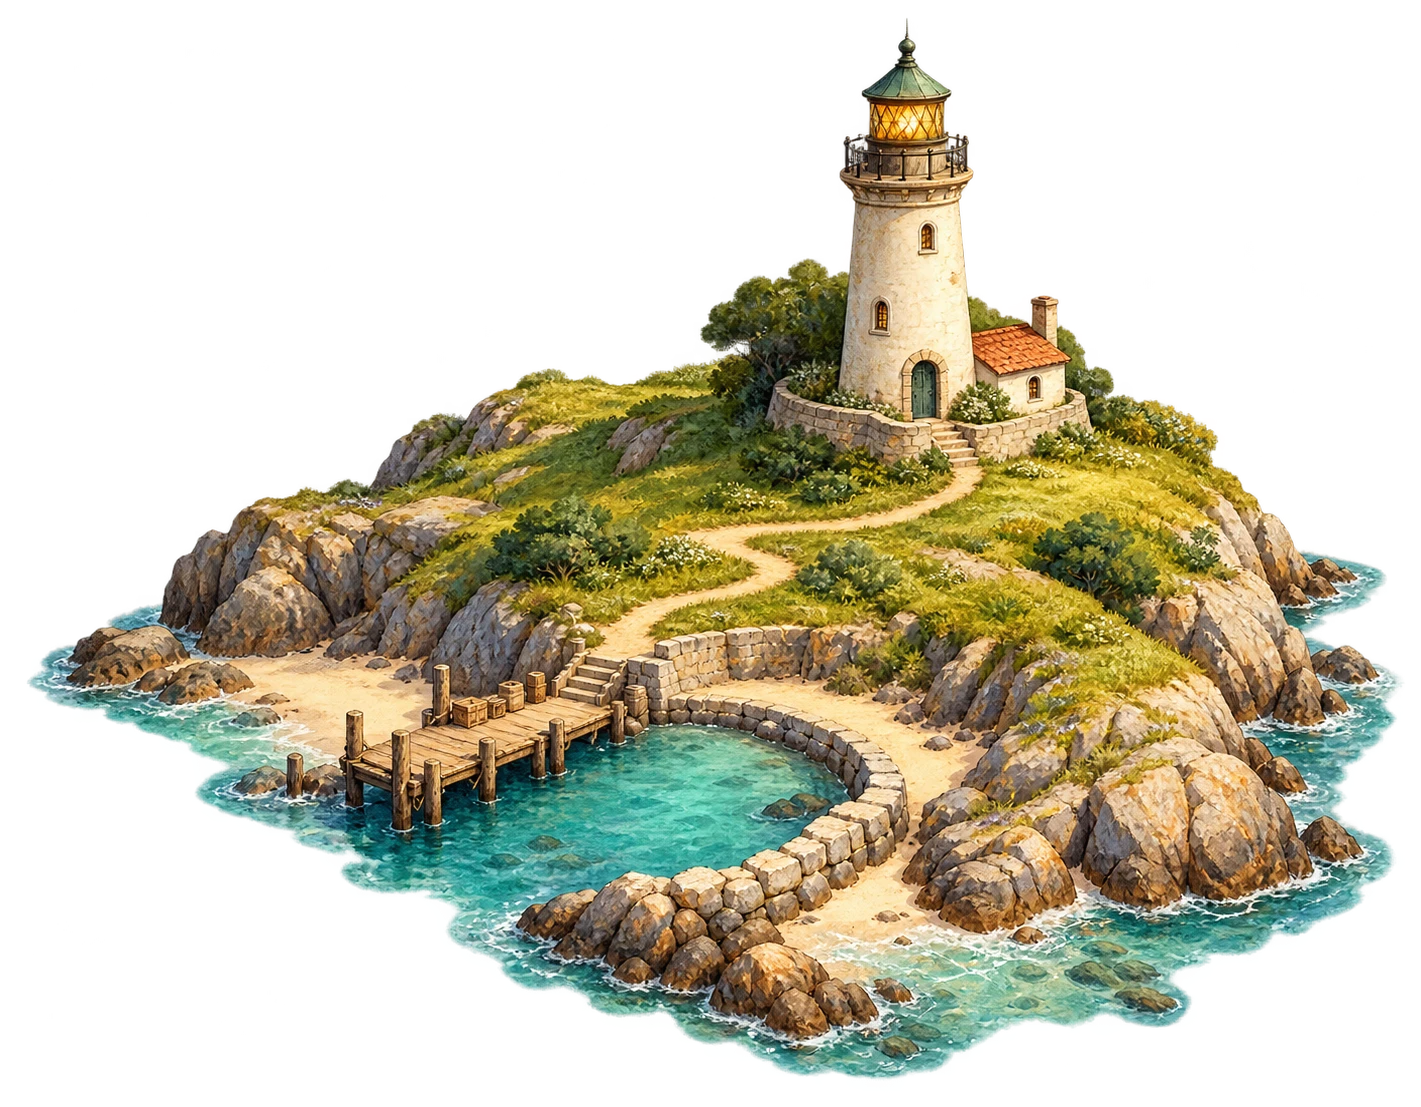
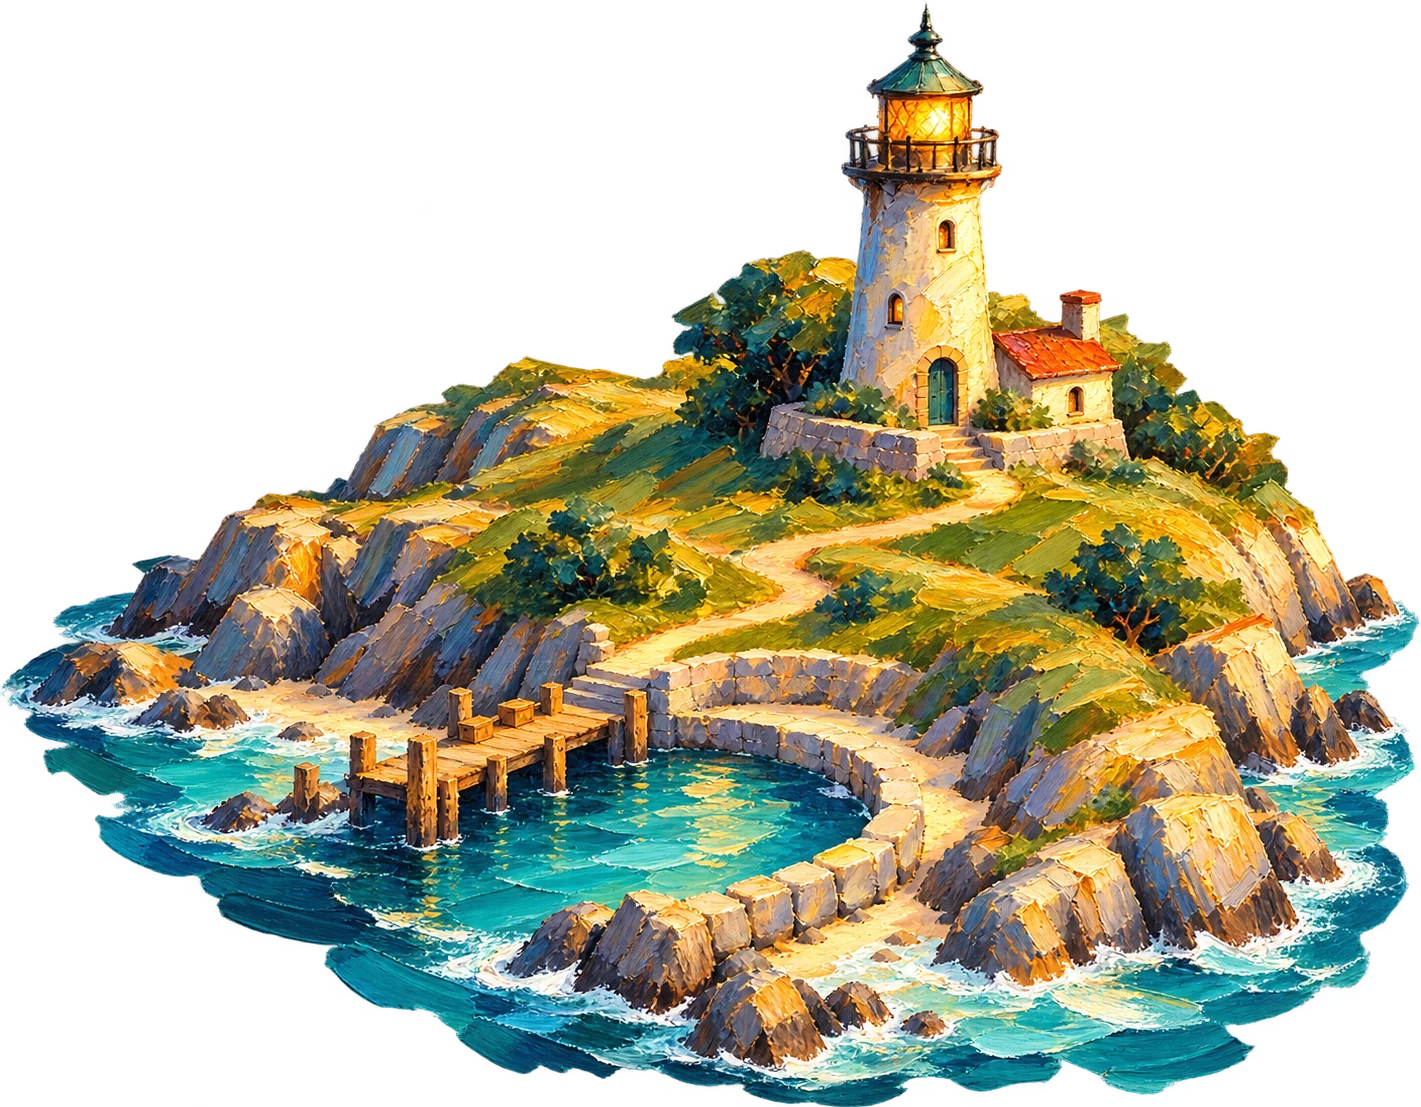
Repainted art plates (backdrop, generic/major/lighthouse islands, chest, parchment) as WebP under 600 KB; judging criteria mapped to the product

diff --git a/docs/JUDGING_CRITERIA.md b/docs/JUDGING_CRITERIA.md
@@ -1,0 +1,28 @@
+# codeLinc 11 — judging criteria (as published; read by every review, docs and presentation agent)
+
+1. **User Interface & Intuitiveness** — cohesive, logical UI/UX; easy for the target user to navigate and administer.
+2. **Functional Requirements & Impact** — functionally addresses the challenge; solves a real problem.
+3. **Solution Design & Innovation** — innovative or creative approach.
+4. **Demonstration and Presentation** — delivered clearly, effectively, positively; demo/screenshots clearly depict the functionality developed.
+5. **Does it Work?** — all or part of the application works; would the organization use it? *Significantly more weight on core functionality than on
+   supporting items such as login/registration/password reset.*
+6. **Technology Platform(s) Employed** — novel platforms, libraries, open source, APIs.
+7. **Security Accommodations** — no value in building login/password from scratch; **describe** how the application accommodates user security via
+   publicly available mechanisms or other means.
+8. **Technical Creativity** — novel approach or innovative solution to the challenge.
+9. **Architecture & Methodology** — presentation touches on architecture; storyboarding or other roadmapping was employed.
+10. **Complexity** — not more complex than necessary, but not overly simplistic; does not gloss over or omit accommodations for the functionality presented.
+
+## How OralCompass maps to the criteria (keep this current)
+| # | Where the evidence lives |
+|---|---|
+| 1 | The Passage map as the information architecture; Answers log; four-tab navigation; keyboard model (`docs/ORALCOMPASS_DESIGN_SPEC.md` §2, §9) |
+| 2 | Real public plan presets with cited clauses; deterministic engine; upload → review → publish; demo numbers in `CLAUDE.md` rule 8 |
+| 3 | Procedure islands + insurance checkpoints = the engine's ledger steps; soundings; fog for uncertainty; stitches to clauses |
+| 4 | `docs/ORALCOMPASS_DESIGN_SPEC.md` §11 demo script; `tools/screenshots.py` desktop + phone captures; README walkthrough |
+| 5 | Engine/API/web test suites; screenshot walk; demo mode with no external dependency |
+| 6 | FastAPI + stdlib engine; React 18 + Vite + Tailwind v4 + shadcn (Radix) + Motion + the vendored component ecosystem; OpenRouter (Claude Haiku 4.5) for extraction/explanations; pdf.js; Web Push (VAPID) |
+| 7 | Owner-scoped reads with constant 404, ids-only audit, redaction before any model call, document text as data, GET-only presets, dev auth vs Cognito JWT path, secrets in env only; claims limited to what is implemented (`docs/ORALCOMPASS_DATA_MODEL.md` security section, `infra/README.md`) |
+| 8 | AI extracts and quotes only; server verifies every quote against the PDF text layer; the assistant can only reference engine amounts; information-only linter at build and run time |
+| 9 | Architecture map in `docs/MASTER_BUILD_PROMPT_V2.md` §0; design panel → binding spec → addendum; component plan; roadmap docs; storyboard = demo script |
+| 10 | 16 fixed procedure keys, one engine, one animation engine, bundle budget; nothing invented where the document is silent |

diff --git a/web/public/art/LICENSE.md b/web/public/art/LICENSE.md
@@ -7,13 +7,13 @@ redistributed as part of OralCompass under the repository's license.
 
 | File | Role | Format |
 |---|---|---|
-| journey-backdrop.webp | primary painted map backdrop (opaque, 1672×941) | WebP |
-| island-generic.webp | ordinary-procedure island plate (transparent, 1422×1106) | WebP + alpha |
-| island-major.webp | major-procedure / mountain island plate (transparent) | WebP + alpha |
-| island-lighthouse.webp | destination / recovery lighthouse island (transparent) | WebP + alpha |
-| benefits-chest.webp | benefits chest / navigational case (transparent, 1254×1254) | WebP + alpha |
+| journey-backdrop.webp | primary painted map backdrop (opaque, 2400×1350, repainted 2026-10-03) | WebP |
+| island-generic.webp | ordinary-procedure island plate (transparent, 1422×1106, repainted 2026-10-03) | WebP + alpha |
+| island-major.webp | major-procedure / mountain island plate with a golden path (transparent, repainted 2026-10-03) | WebP + alpha |
+| island-lighthouse.webp | destination / recovery lighthouse island at golden hour (transparent, repainted 2026-10-03) | WebP + alpha |
+| benefits-chest.webp | navigator's walnut chest (transparent, 1254×1254, repainted 2026-10-03) | WebP + alpha |
 | emblem.png · icons/* · favicon.ico | OralCompass mark, PWA icons derived from it | PNG / ICO |
 | fog-layer-1.webp · fog-layer-2.webp | translucent mist layers for depth/parallax (2000×667) | WebP + alpha |
-| paper-texture.webp | parchment grain tile (1254×1254) | WebP |
+| paper-texture.webp | ivory parchment brushwork tile (1254×1254, repainted 2026-10-03) | WebP |
 
 The SVG scenes in `web/src/components/atlas/` remain the fallback whenever a file here is missing or fails to load.
